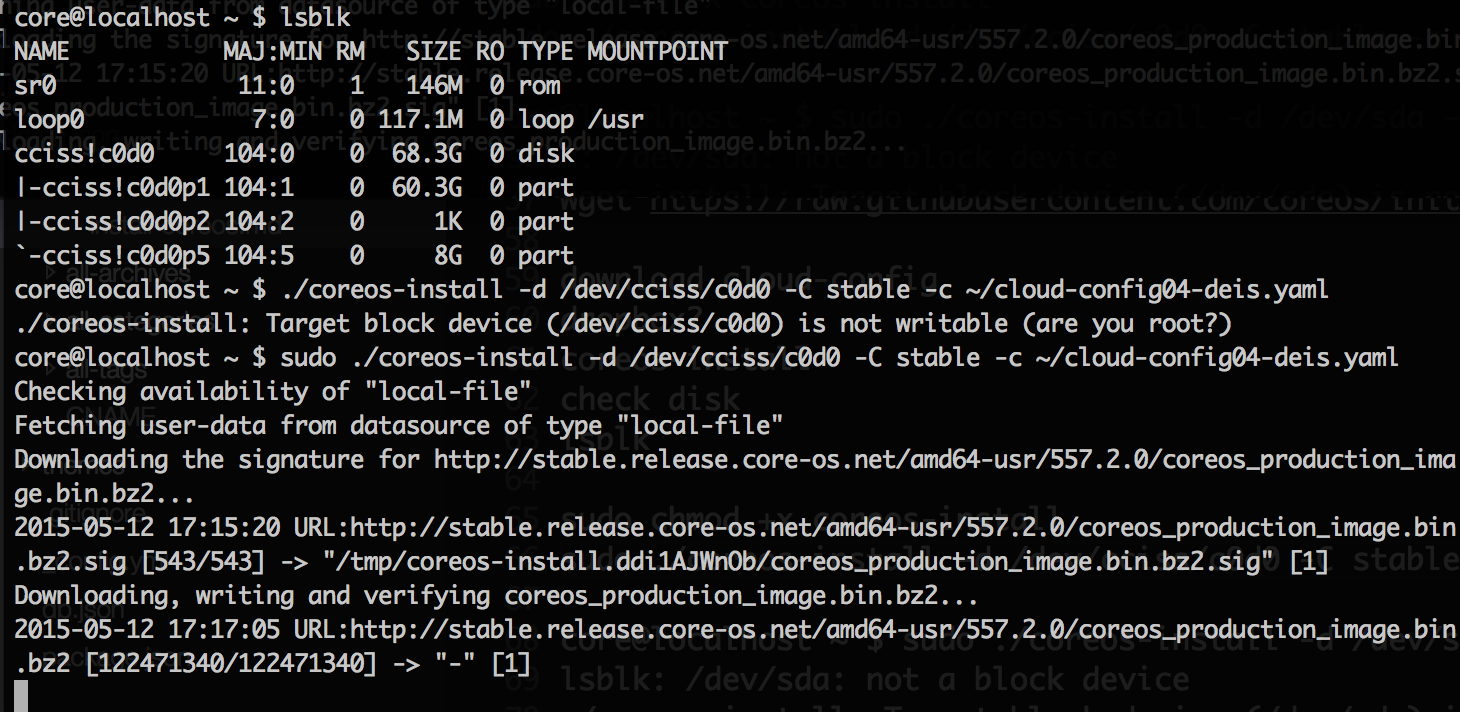
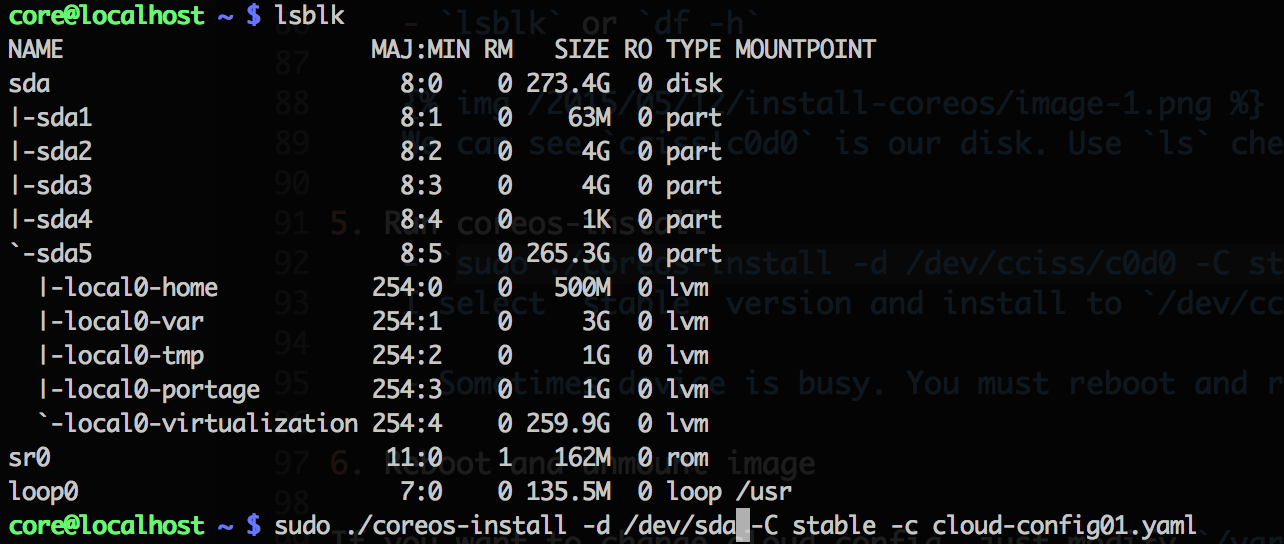
Site updated: 2015-05-26 02:39:46

diff --git a/2015/05/12/install-coreos/index.html b/2015/05/12/install-coreos/index.html
@@ -210,13 +210,13 @@
 <ul>
 <li><p><code>lsblk</code> or <code>df -h</code></p>
 <img src="/2015/05/12/install-coreos/image-1.png">
-<p>We can see <code>cciss!c0d0</code> is our disk. Use <code>ls</code> check if <code>/dev/cciss/c0d0</code> is exsited.</p>
+<p>We can see <code>sda</code> is our disk. Use <code>ls</code> check if <code>/dev/sda</code> is exsited.</p>
 </li>
 </ul>
 </li>
 <li><p>Run coreos-install</p>
 <ul>
-<li><p><code>sudo ./coreos-install -d /dev/cciss/c0d0 -C stable -c cloud-config01.yaml</code><br>I select <code>stable</code> version and install to <code>/dev/cciss/c0d0</code> by using <code>cloud-config01.yaml</code>. Maybe you want to use <code>beta</code> or <code>alpha</code>. As your mind.</p>
+<li><p><code>sudo ./coreos-install -d /dev/sda -C stable -c cloud-config01.yaml</code><br>I select <code>stable</code> version and install to <code>/dev/sda</code> by using <code>cloud-config01.yaml</code>. Maybe you want to use <code>beta</code> or <code>alpha</code>. As your mind.</p>
 </li>
 <li><p>Sometimes device is busy. You must reboot and re-do from seting network though it’s annoyed….</p>
 </li>
